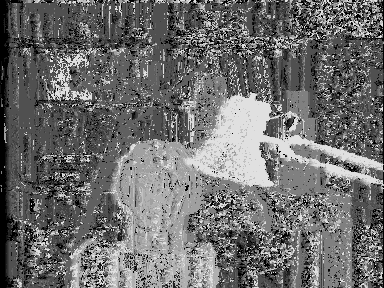
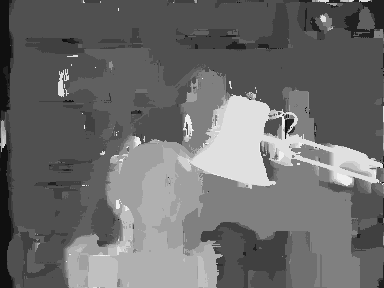
push

diff --git a/Assignment4/main.py b/Assignment4/main.py
@@ -97,6 +97,8 @@ def computeDisp(Il, Ir, max_disp):
     
     Il = Il.astype('float32')
     Ir = Ir.astype('float32')
+    Il = Il / 255
+    Ir = Ir / 255
     
     Il_dx = Il.copy()
     Il_dx[:, 1:] =  Il_dx[:, 1:] - Il[:, :w-1]
@@ -109,7 +111,7 @@ def computeDisp(Il, Ir, max_disp):
     tic = time.time()
     
     # TODO: Compute matching cost from Il and Ir
-    for d in range(max_disp):
+    for d in range(1, max_disp+1):
         cost1 = Il.copy()
         Ir_ = Ir[:, :w-d, :]
         cost1[:, d:, :] = cost1[:, d:, :] - Ir_
@@ -121,7 +123,7 @@ def computeDisp(Il, Ir, max_disp):
         cost2= cost2**2
         cost2 = np.sum(cost2, axis=2)
         
-        cost_ls.append(0.1*cost1 + 0.9*cost2)
+        cost_ls.append(0.1*cost1 + 0.*cost2)
         
     costvolume = np.stack(cost_ls, axis=2)
         
@@ -132,7 +134,7 @@ def computeDisp(Il, Ir, max_disp):
     tic = time.time()
     
     # TODO: Refine cost by aggregate nearby costs
-    costvolume_filtered = JBF(costvolume, Il, 19, 1, 3)
+    costvolume_filtered = JBF(costvolume, Il, 19, 9, 0.1)
     
     toc = time.time()
     print('* Elapsed time (cost aggregation): %f sec.' % (toc - tic))
@@ -142,6 +144,7 @@ def computeDisp(Il, Ir, max_disp):
     
     # TODO: Find optimal disparity based on estimated cost. Usually winner-take-all.
     labels = np.argmin(costvolume_filtered, axis=2)
+    labels = labels + 1
      
     toc = time.time()
     print('* Elapsed time (disparity optimization): %f sec.' % (toc - tic))
